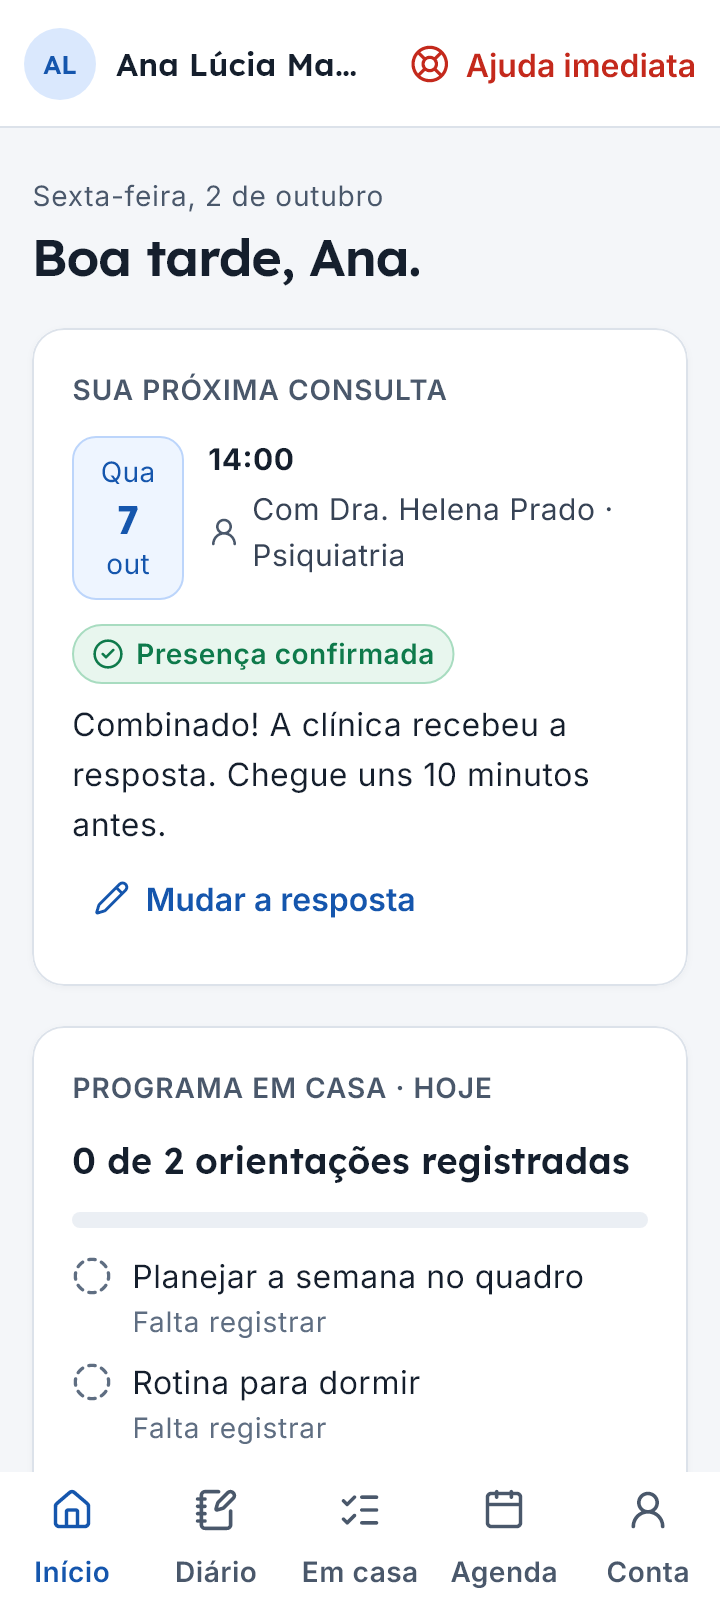
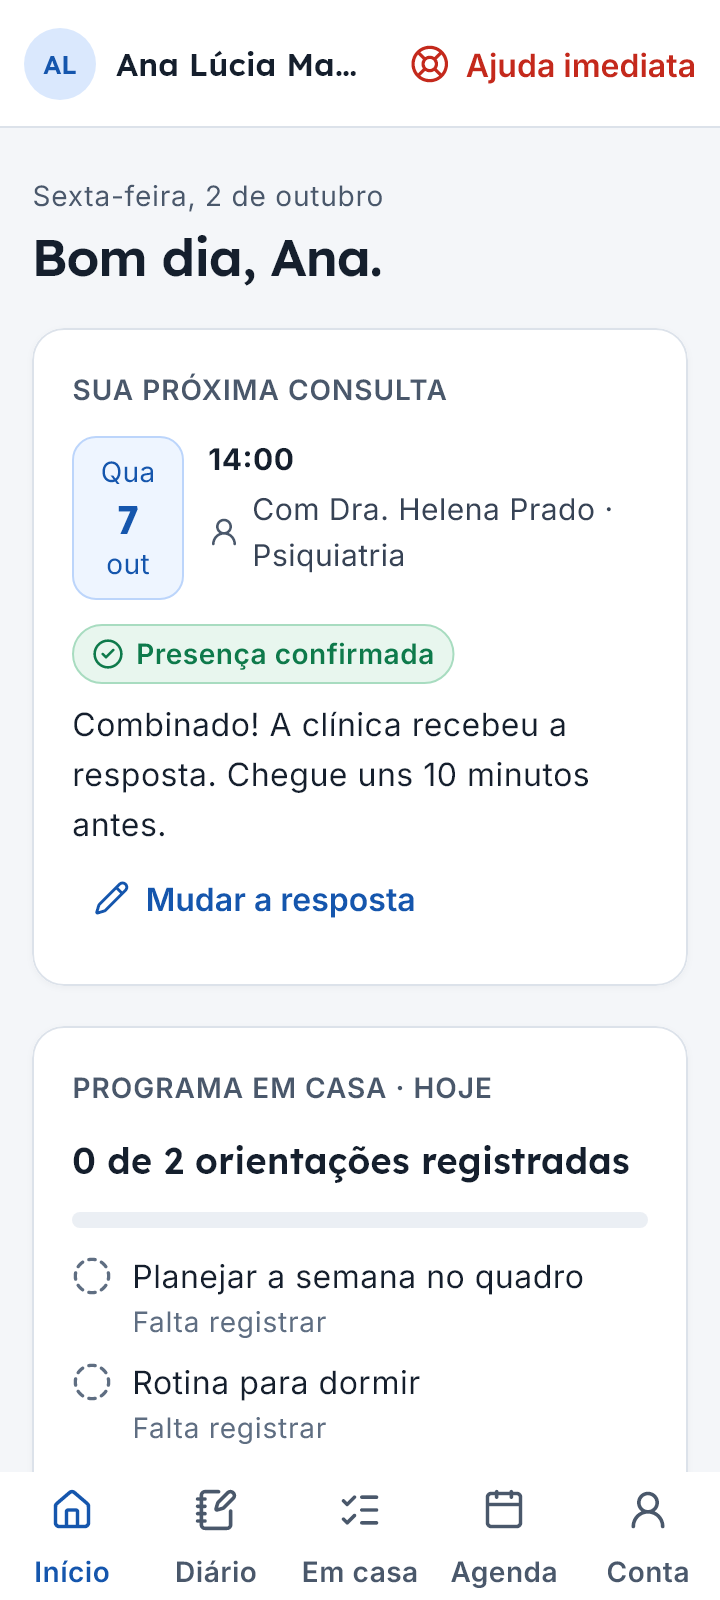
fix(inicio): a saudação usa a hora da clínica, não a hora em UTC
Às 22:30 em Cuiabá o app dizia Bom dia, porque o instante em UTC já era 02:30.

Changed region(s): [[0.1528, 0.1562, 0.5806, 0.1875]]

diff --git a/test/funcionalidades/paciente/inicio_test.dart b/test/funcionalidades/paciente/inicio_test.dart
@@ -1,7 +1,9 @@
 import 'package:flutter/material.dart';
 import 'package:flutter_test/flutter_test.dart';
+import 'package:terae_app/funcionalidades/paciente/inicio/inicio_tela.dart';
 import 'package:terae_app/nucleo/rotas/rotas.dart';
 import 'package:terae_app/nucleo/sessao/sessao.dart';
+import 'package:terae_app/nucleo/tempo/relogio.dart';
 
 import '../../apoio/dubles.dart';
 import 'apoio_paciente.dart';
@@ -238,5 +240,24 @@ void main() {
         greaterThan(tester.getBottomLeft(nome).dy),
       );
     });
+  });
+
+  test('saudação pela hora da clínica (−04:00), não pela hora em UTC', () {
+    // 02:30Z de 28/11 é 22:30 de 27/11 em Cuiabá: "Boa noite", não "Bom dia".
+    expect(saudacaoDoMomento(DateTime.utc(2026, 11, 28, 2, 30)), 'Boa noite');
+    expect(
+      saudacaoDoMomento(instanteNaClinica(2026, 11, 27, 7, 59)),
+      'Bom dia',
+    );
+    expect(saudacaoDoMomento(instanteNaClinica(2026, 11, 27, 12)), 'Boa tarde');
+    expect(
+      saudacaoDoMomento(instanteNaClinica(2026, 11, 27, 17, 59)),
+      'Boa tarde',
+    );
+    expect(saudacaoDoMomento(instanteNaClinica(2026, 11, 27, 18)), 'Boa noite');
+    expect(
+      saudacaoDoMomento(instanteNaClinica(2026, 11, 27, 0, 30)),
+      'Bom dia',
+    );
   });
 }

diff --git a/lib/funcionalidades/paciente/inicio/inicio_tela.dart b/lib/funcionalidades/paciente/inicio/inicio_tela.dart
@@ -221,9 +221,10 @@ class _ConteudoInicio extends StatelessWidget {
   }
 }
 
-/// "Bom dia", "Boa tarde" ou "Boa noite", pela hora de [agora] (o portal
-/// cumprimenta assim no Início).
-String saudacaoDoMomento(DateTime agora) => switch (agora.hour) {
+/// "Bom dia", "Boa tarde" ou "Boa noite", pela hora de [agora] no relógio de
+/// parede da clínica (−04:00, não a do aparelho nem UTC: às 22:30 em Cuiabá o
+/// instante em UTC já é 02:30 do dia seguinte).
+String saudacaoDoMomento(DateTime agora) => switch (naClinica(agora).hour) {
   < 12 => 'Bom dia',
   < 18 => 'Boa tarde',
   _ => 'Boa noite',
